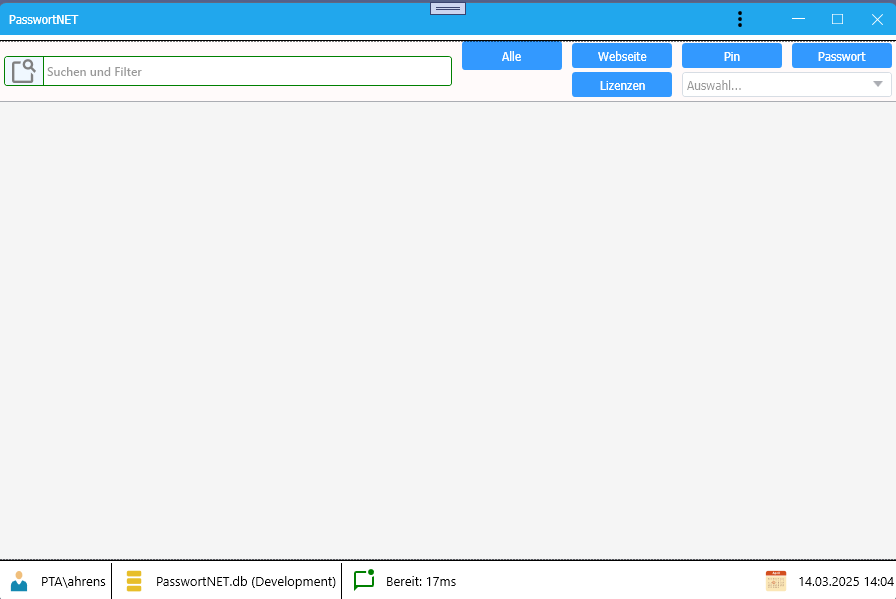
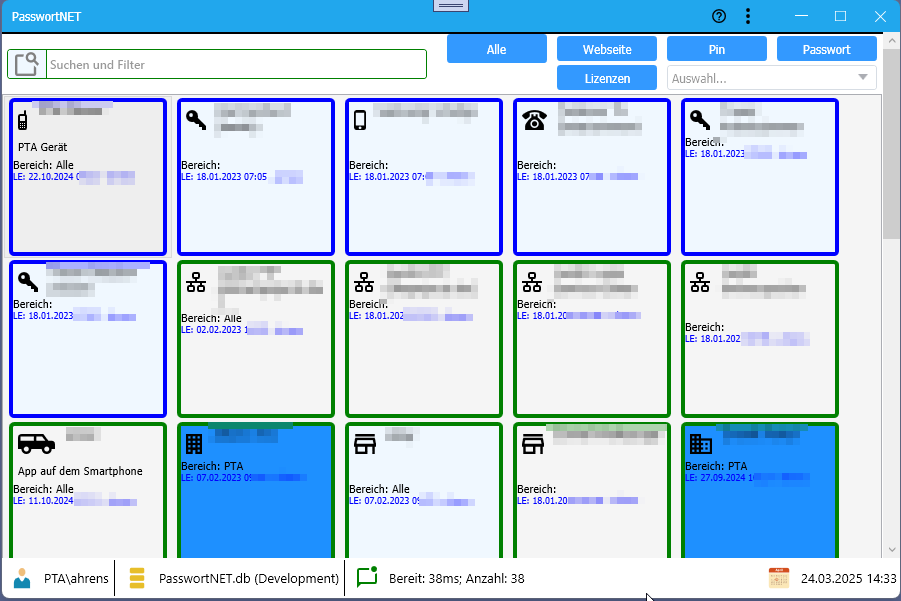
*

Changed region(s): [[0.0, 0.0, 1.0, 1.0]]

diff --git a/Views/ContentControls/PasswordDetailUC.xaml.cs b/Views/ContentControls/PasswordDetailUC.xaml.cs
@@ -4,6 +4,7 @@
     using System.Windows;
     using System.Windows.Controls;
     using System.Windows.Input;
+    using ModernBaseLibrary.Core;
 
     using ModernIU.Controls;
 
@@ -18,13 +19,21 @@
     {
         private INotificationService notificationService = new NotificationService();
 
-        public PasswordDetailUC(ChangeViewEventArgs e) : base(typeof(PasswordDetailUC))
+        public PasswordDetailUC(ChangeViewEventArgs args) : base(typeof(PasswordDetailUC))
         {
             this.InitializeComponent();
+
+            this.Id = args.EntityId;
+            this.RowPosition = args.RowPosition;
+
             WeakEventManager<UserControl, RoutedEventArgs>.AddHandler(this, "Loaded", this.OnLoaded);
             this.InitCommands();
             this.DataContext = this;
         }
+
+
+        private Guid Id { get; set; }
+        private int RowPosition { get; set; }
 
         public override void InitCommands()
         {
@@ -39,6 +48,29 @@
         private void OnLoaded(object sender, RoutedEventArgs e)
         {
             Keyboard.Focus(this);
+            this.LoadDataHandler();
+        }
+
+        private void LoadDataHandler()
+        {
+            try
+            {
+                using (ObjectRuntime objectRuntime = new ObjectRuntime())
+                {
+
+                    StatusbarMain.Statusbar.SetNotification($"Bereit: {objectRuntime.ResultMilliseconds()}ms");
+                }
+            }
+            catch (FileLockException ex)
+            {
+                App.ErrorMessage(ex);
+                App.Current.Shutdown(0);
+            }
+            catch (Exception ex)
+            {
+                string errorText = ex.Message;
+                throw;
+            }
         }
 
         private void BackHandler(object p1)
@@ -47,6 +79,7 @@
             {
                 Sender = this.GetType().Name,
                 MenuButton = MainButton.MainOverview,
+                RowPosition = this.RowPosition,
             });
         }
 

diff --git a/Views/ContentControls/MainOverviewUC.xaml.cs b/Views/ContentControls/MainOverviewUC.xaml.cs
@@ -175,7 +175,6 @@
                     }
 
                     StatusbarMain.Statusbar.SetNotification($"Bereit: {objectRuntime.ResultMilliseconds()}ms; Anzahl: {this.DisplayRowCount}");
-
                 }
             }
             catch (FileLockException ex)
